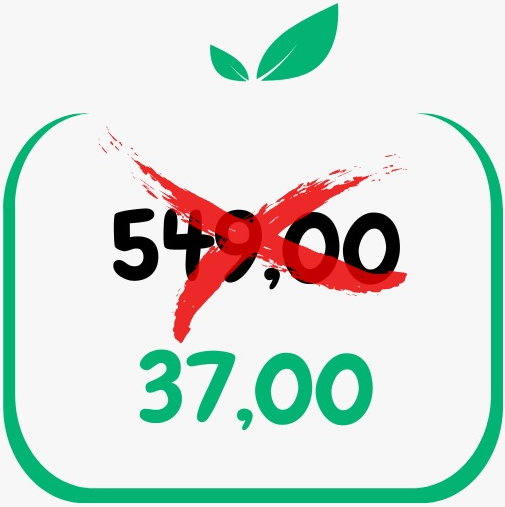
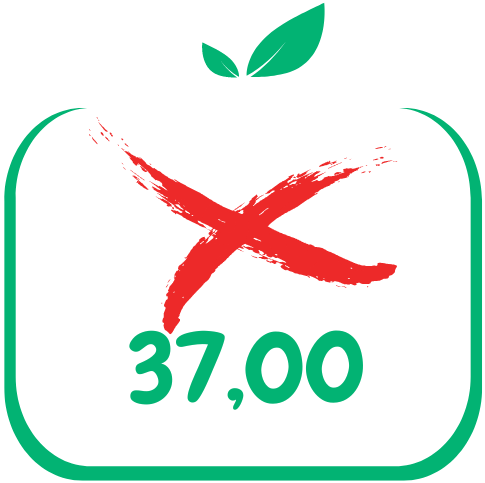
change price box img

diff --git a/website-sdi/src/components/Trail.tsx b/website-sdi/src/components/Trail.tsx
@@ -18,7 +18,7 @@ const Trail: React.FC = () => {
   return (
     <section className="py-8">
       <div className="bg-gradient-green text-white text-center h-28 flex items-center justify-center">
-        <p className="text-2xl md:text-5xl font-bold no-paragraph-font">Grupo de networking disponível no final do E-book</p>
+        <p className="text-2xl md:text-5xl font-bold no-paragraph-font">Grupo de networking disponível {isMobile && <br />}  no final do E-book</p>
       </div>
 
       <div className="mt-16 ">

diff --git a/website-sdi/index.html b/website-sdi/index.html
@@ -2,7 +2,7 @@
 <html lang="en">
   <head>
     <meta charset="UTF-8" />
-    <link rel="icon" type="image/svg+xml" href="/vite.svg" />
+    <link rel="icon" type="image/svg+xml" href="icon-bar.png" />
     <link href="https://fonts.googleapis.com/css2?family=Montserrat:wght@400;700&display=swap" rel="stylesheet">
     <link href="https://fonts.googleapis.com/css2?family=Roboto+Condensed:wght@400;700&display=swap" rel="stylesheet">
     <link rel="stylesheet" href="/fonts/style.css" />

diff --git a/website-sdi/src/components/Footer.tsx b/website-sdi/src/components/Footer.tsx
@@ -1,5 +1,5 @@
 import React from 'react';
-import PriceBox from "../assets/price-box-img.png"
+import PriceBox from "../assets/price-box.png"
 
 const Footer: React.FC = () => {
   return (
